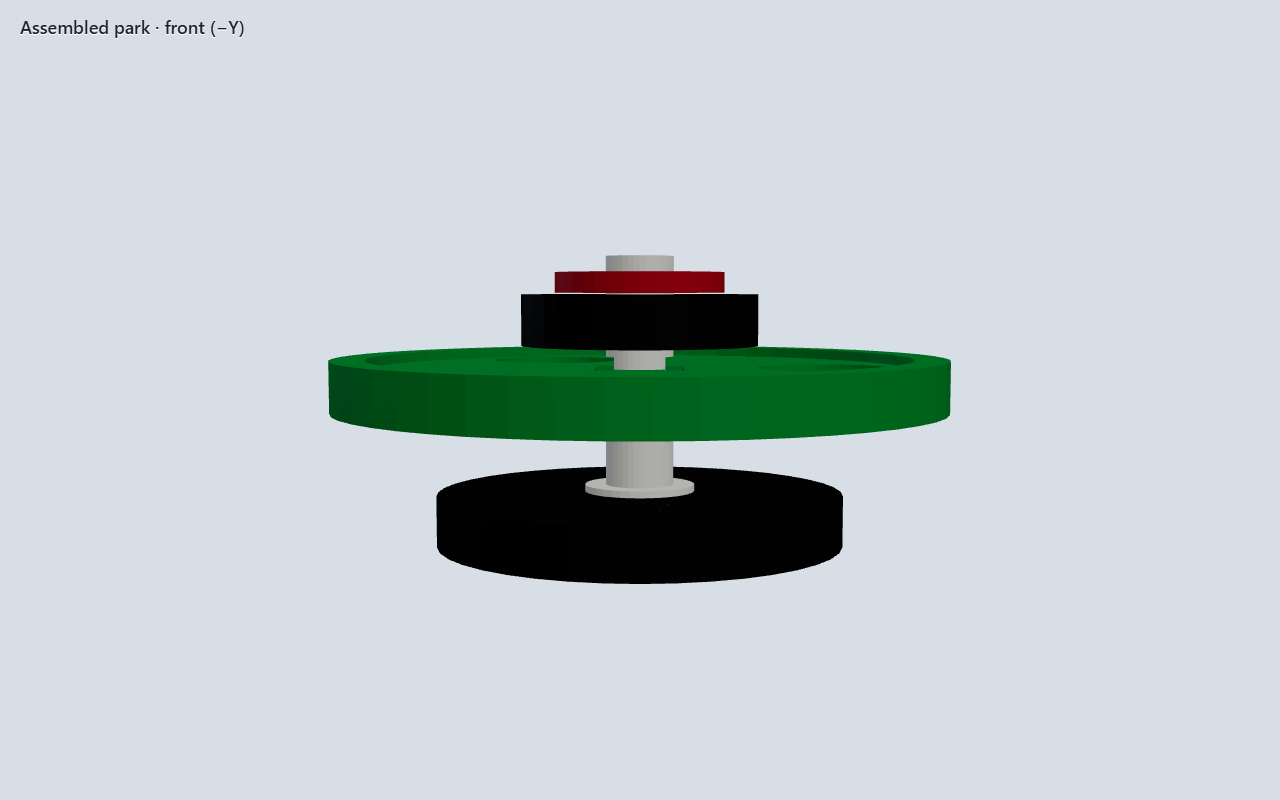
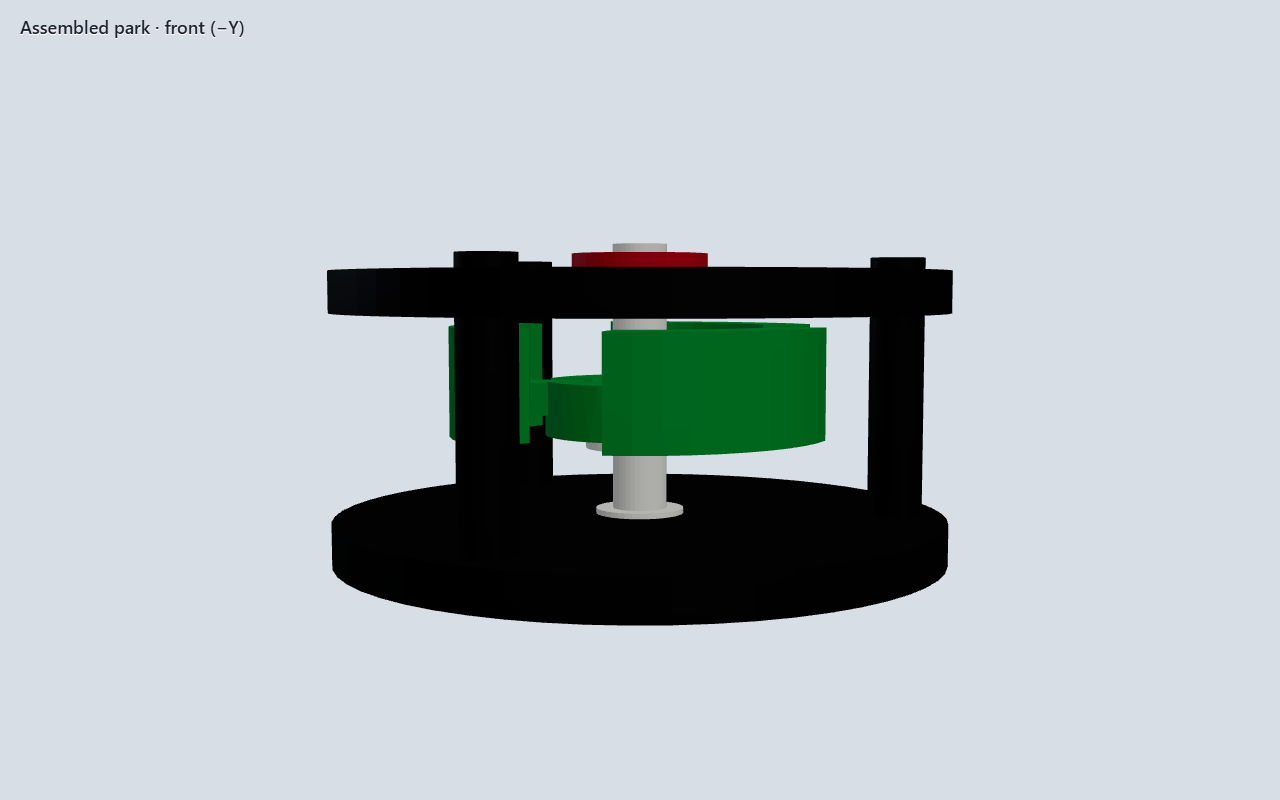
fix(mcp): bind print-kit datums before borrow; show VAWT park
Avoid E0499 on begin_datum(offset_xy(...)). Replace assembled-park views with the nine-body VAWT: posts, hub sockets, three scoops in the bays.

Changed region(s): [[0.25, 0.2812, 0.75, 0.7812]]

diff --git a/mcp-server/src/print_kit_tutor.rs b/mcp-server/src/print_kit_tutor.rs
@@ -507,7 +507,8 @@ fn build_wing(
     let angle = spec.wing_angle_deg(index);
     let keep_start = angle - spec.wing_sweep_deg / 2.0;
     let keep_end = angle + spec.wing_sweep_deg / 2.0;
-    begin_datum(call, offset_xy(call, spec.shoulder_top())?)?;
+    let pie_deck = offset_xy(call, spec.shoulder_top())?;
+    begin_datum(call, pie_deck)?;
     add_pie_cut(call, keep_start, keep_end, 80.0)?;
     let pie = finish_sketch(call)?;
     require_clean(
